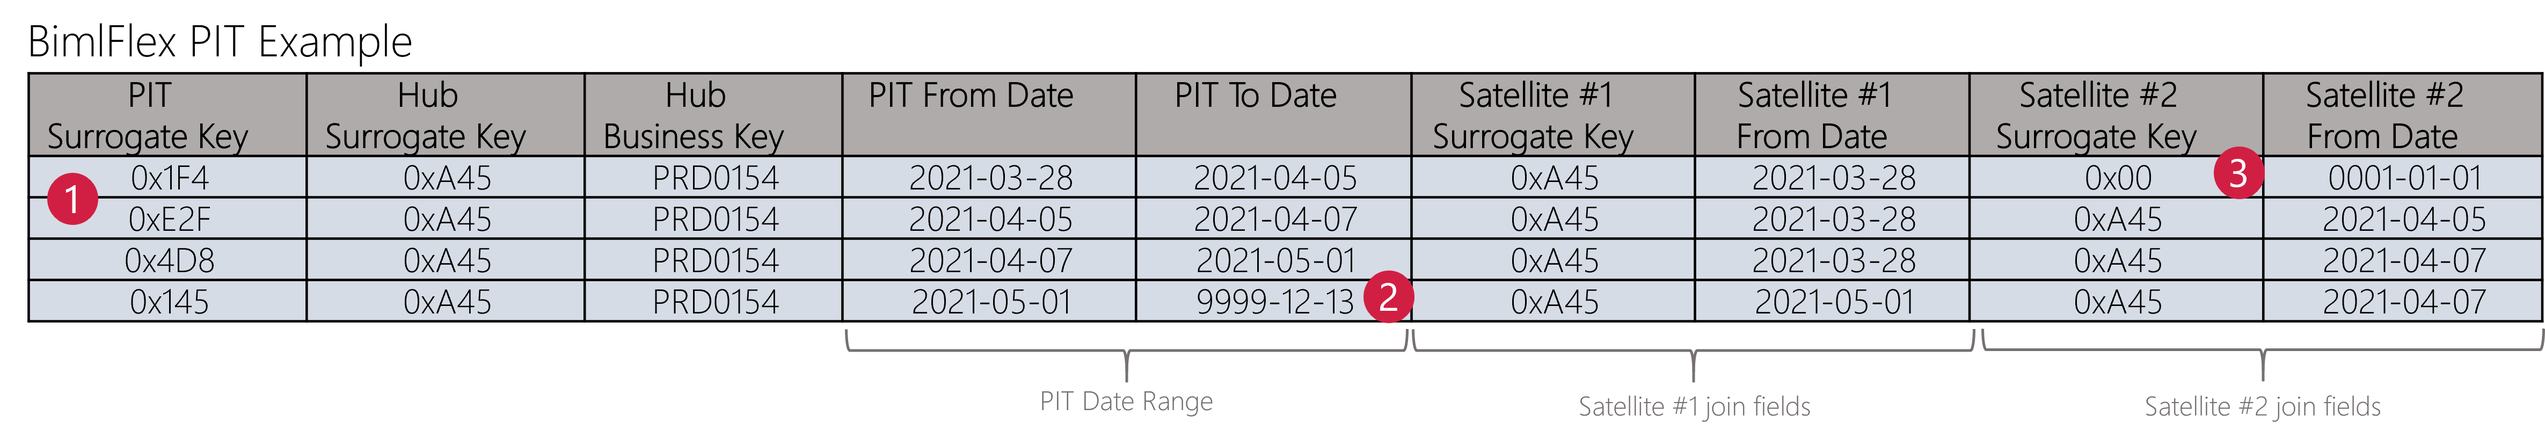
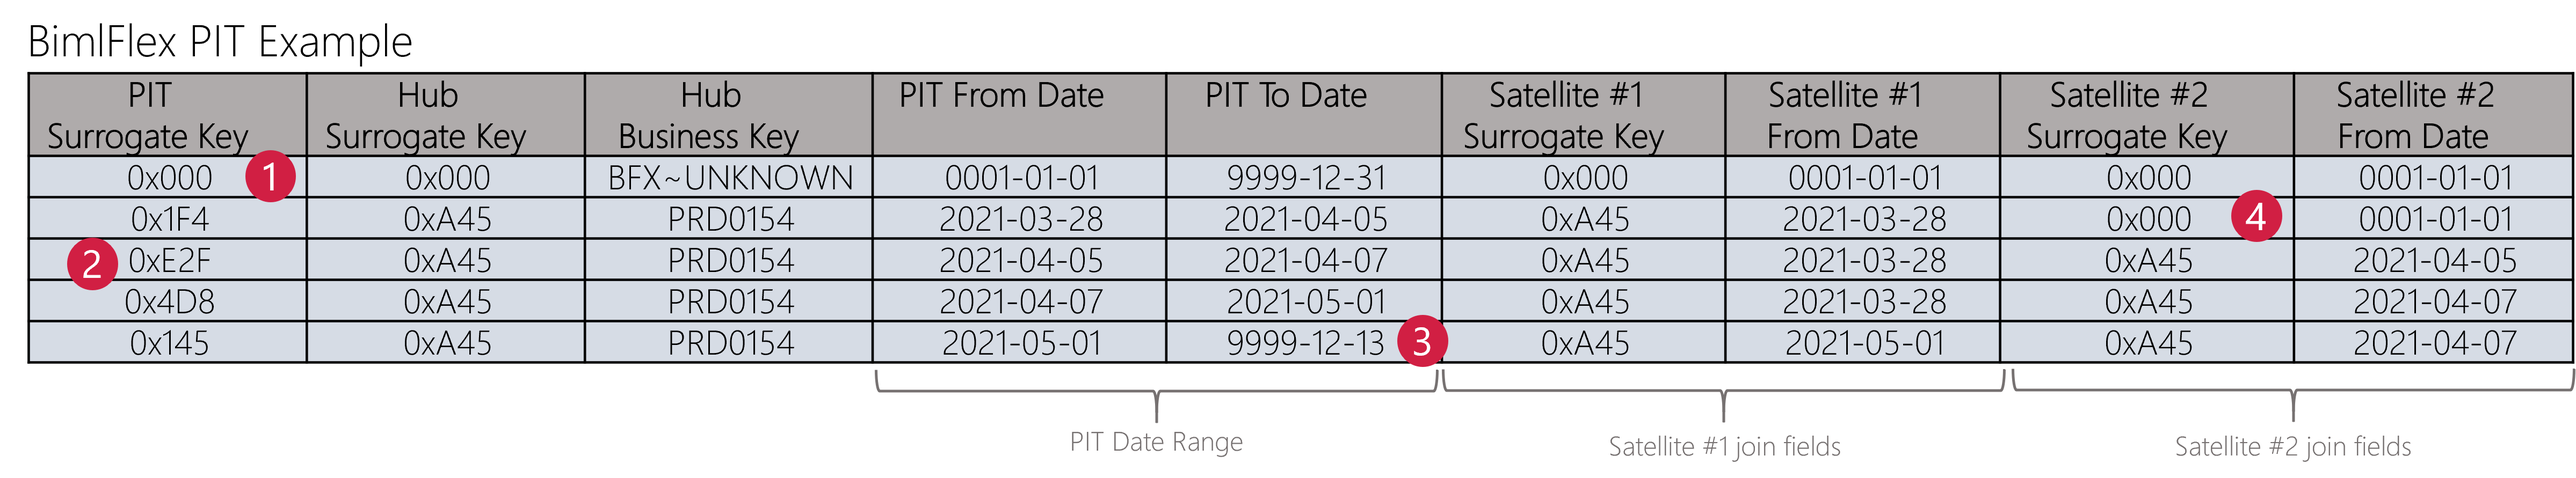
Added Bridge table concept introduction.

diff --git a/bimlflex/data-vault-bimlflex/data-vault-implementation-bridge.md b/bimlflex/data-vault-bimlflex/data-vault-implementation-bridge.md
@@ -7,7 +7,23 @@ varigenceArticleType: Conceptual
 ---
 # Data Vault Bridge tables in BimlFlex
 
-The `Bridge` table is a combination of primary keys and business keys spread across multiple Hubs and Links.
-They can be thought of as "base level Fact Tables".
-They provide a snapshot of key structures and are generally not temporal in nature.
-That said, because Bridge Tables live within the Information Mart logical construct, they can also house computed fields, or temporality.
+The `Bridge` table is a combination of primary keys and business keys spread across multiple [Hub](xref:bimlflex-data-vault-concept-hub) and [Link](xref:bimlflex-data-vault-concept-link) tables.
+
+Similar to [Point-In-Time](xref:bimlflex-data-vault-concept-pit) tables, Bridge tables are constructs that intent to simplify querying from the Data Vault model and boost performance. A Bridge table can be useful if certain Hub and Link joins are used often in queries.
+
+Since Hub and Link tables only capture business- and data warehouse (surrogate) keys, a Bridge tables provide a snapshot of key structures and does not store historical information. In other words, they are not temporal in nature as for example [Satellites](xref:xref:bimlflex-data-vault-concept-satellite) are.
+
+A Bridge table, in its simplest form, is driven from a Link table. This means the starting point is the Link table, and relating Hubs are joined from there. The Bridge table will contain the surrogate key of the Link table, and the business keys and from the corresponding Hub tables.
+
+> [!NOTE]
+> Bridge tables are incrementally updated when new data becomes available in the Data Vault tables that support them.
+
+![Bridge example](images/bridge-example.png "Bridge example")
+
+Using a Bridge table, contextual data from Satellites can be directly joined to a single table instead of the many joins that are otherwise needed. The Bridge only contains keys to prevent executing the same join query many times, so it does not contain historical data. To understand the history of changes for any Satellite that is joined to the Bridge table it is also an option to build a PIT table using the Bridge.
+
+There are some important notes to clarify on the structure of the Bridge table in BimlFlex, and these are numbered in the example:
+
+1. Each Bridge table contains a `[zero record](xref:bimlflex-data-vault-concept-zero-records)`, which provides an 'unknown' record that replaces to any NULL value.
+2. Each Bridge record receives a surrogate key that uniquely identifies a row in the Bridge table. This is purely for identification purposes.
+3. The load date / time stamp used (`FlexRowEffectiveFromDate` in BimlFlex) is derived from the involved Hub and Link tables. When loading the Bridge table, BimlFlex will reuse the lowest (earliest) value from the tables that are in scope. This value contains the earliest moment in time a relationship between Core Business Concepts could be established.

diff --git a/bimlflex/data-vault-bimlflex/data-vault-implementation-pit.md b/bimlflex/data-vault-bimlflex/data-vault-implementation-pit.md
@@ -61,9 +61,10 @@ Using this PIT table, it is easy to query what context attributes from the Satel
 
 There are some important notes to clarify on the structure of the PIT table in BimlFlex, and these are numbered in the example:
 
-1. Each PIT record receives a unique PIT surrogate key that uniquely identifies a row in the PIT table. This is purely for identification purposes.
-2. BimlFlex uses a high end-date as default, which is 9999-12-13 in this example. This is to make sure that any queries on the PIT table always return a result, which is the most recent state of the data as it has been received by the data solution.
-3. If no context is available for a given point in time BimlFlex will apply (configurable) default values to highlight that no data exists. This is to allow equi-joins even when there is no data, without risking data loss.
+1. Each PIT table contains a `[zero record](xref:bimlflex-data-vault-concept-zero-records)`, which provides an 'unknown' record in the PIT table that refers to any NULL value.
+2. Each PIT record receives a unique PIT surrogate key that uniquely identifies a row in the PIT table. This is purely for identification purposes.
+3. BimlFlex uses a high end-date as default, which is 9999-12-13 in this example. This is to make sure that any queries on the PIT table always return a result, which is the most recent state of the data as it has been received by the data solution.
+4. If no context is available for a given point in time BimlFlex will apply (configurable) default values to highlight that no data exists. This is to allow equi-joins even when there is no data, without risking data loss.
 
 ## Additional PIT features
 

diff --git a/bimlflex/data-vault-bimlflex/index.md b/bimlflex/data-vault-bimlflex/index.md
@@ -32,6 +32,7 @@ BimlFlex provides various ways to implement data solutions that utilise concepts
 * [Implementing Data Vault Links in BimlFlex](xref:bimlflex-data-vault-implementation-link)
 * [Driving Keys in BimlFlex](xref:bimlflex-data-vault-driving-keys)
 * [BimlFlex solution templates for Data Vault](xref:bimlflex-data-vault-templates)
+* [Zero records](xref:bimlflex-data-vault-concept-zero-records)
 
 ## Recommendations for implementing Data Vault on Microsoft Azure Synapse Analytics
 

diff --git a/bimlflex/data-vault-bimlflex/data-vault-concept-zero-records.md b/bimlflex/data-vault-bimlflex/data-vault-concept-zero-records.md
@@ -1,0 +1,9 @@
+---
+uid: bimlflex-data-vault-concept-zero-records
+title: Data Vault Zero Records
+summary: Overview of Data Vault Zero Records
+varigenceProduct: BimlFlex
+varigenceArticleType: Conceptual
+---
+# Zero records
+
